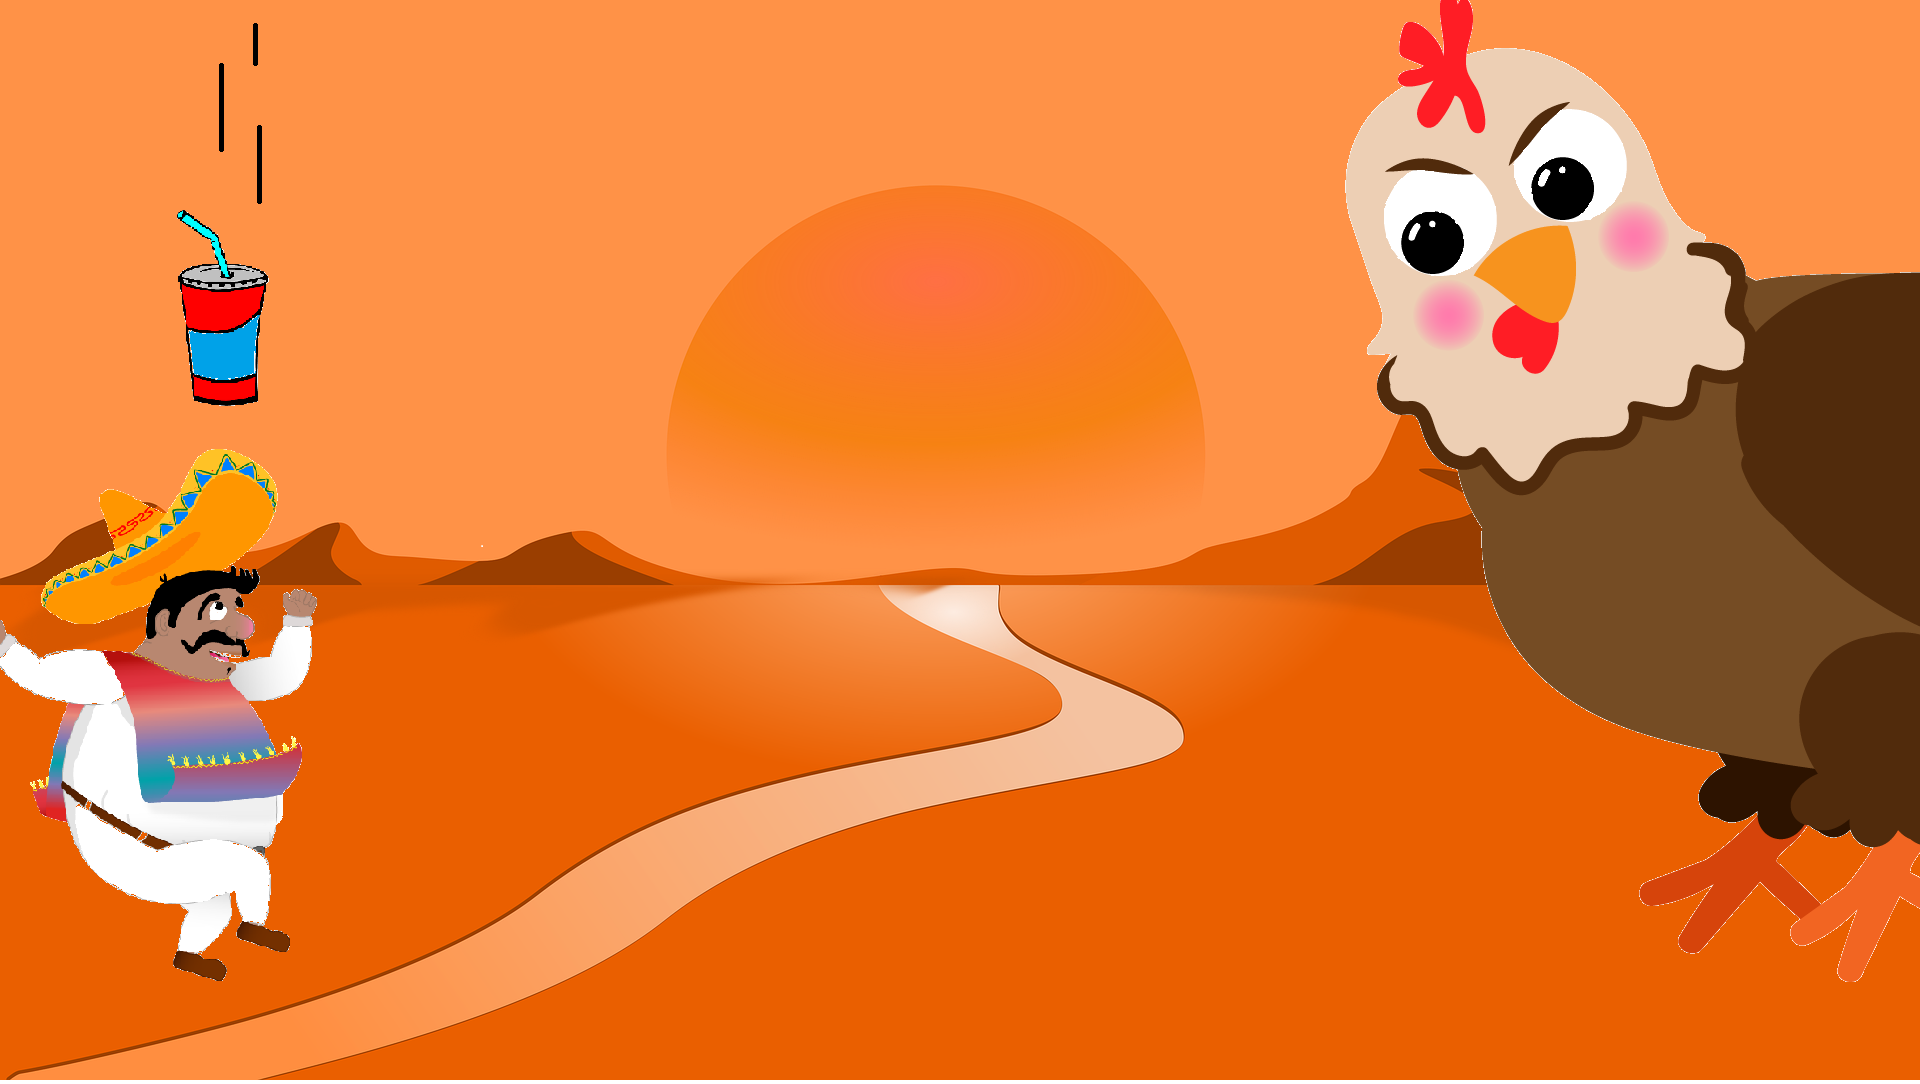
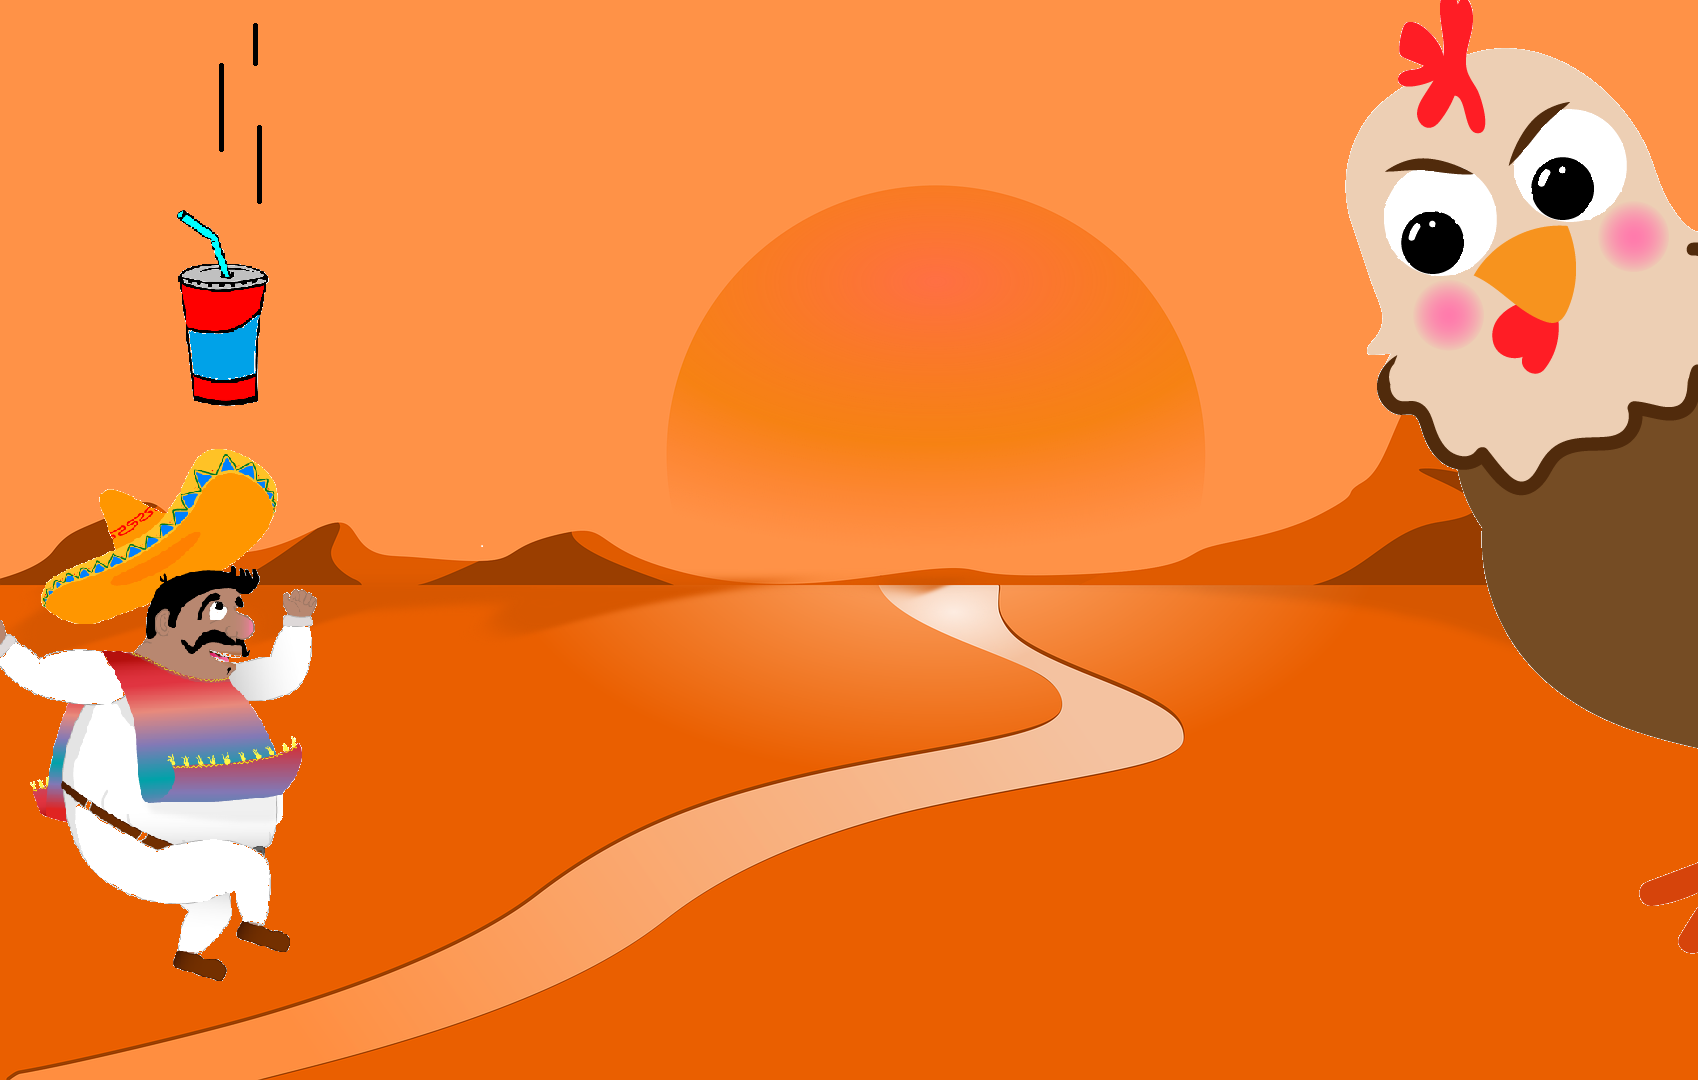
adding background and font

diff --git a/style.css b/style.css
@@ -6,6 +6,8 @@
 
 html {
     transition: all 125ms ease-in-out;
+    margin: 0;
+    padding: 0;
 }
 
 .flex {
@@ -62,13 +64,36 @@ body {
     flex-direction: column;
     justify-content: center;
     align-items: center;
+    margin: 0;
+    padding: 0;
+    width: 100%;
     height: 100vh;
-    background-image: url('img/background.png');
+
+    background-image: url('img/background_mobile.png');
+    background-size: cover;
     background-position: center;
+    background-repeat: no-repeat;
+
     font-family: 'zabars';
-    max-height: 100vh;
+    font-size: 40px;
+    letter-spacing: 8px;
+}
+
+body > h1 {
+    margin: 0 0 12px 0;
 }
 
 canvas {
     background-color: black;
+}
+
+
+/* @media screen and (max-width: 1300px) {
+    body {
+        background-image: url('img/background_mobile.png');
+    }
+} */
+
+.btnFullscreen {
+    z-index: 3;
 }

diff --git a/index.html b/index.html
@@ -5,7 +5,7 @@
     <meta http-equiv="X-UA-Compatible" content="IE=edge">
     <meta name="viewport" content="width=device-width, initial-scale=1.0">
     <link rel="stylesheet" href="style.css">
-    
+
     <link rel="icon" type="image/x-icon" href="img/3_enemies_chicken/chicken_normal/1_walk/1_w.png">
     <title>El pollo locko</title>
     <script src="models/drawable-object.class.js"></script>
@@ -29,5 +29,7 @@
 <body onload="init()">
     <h1>El pollo loco</h1>
     <canvas width="720" height="480" id="canvas">
+        
+    </canvas>
 </body>
 </html>
